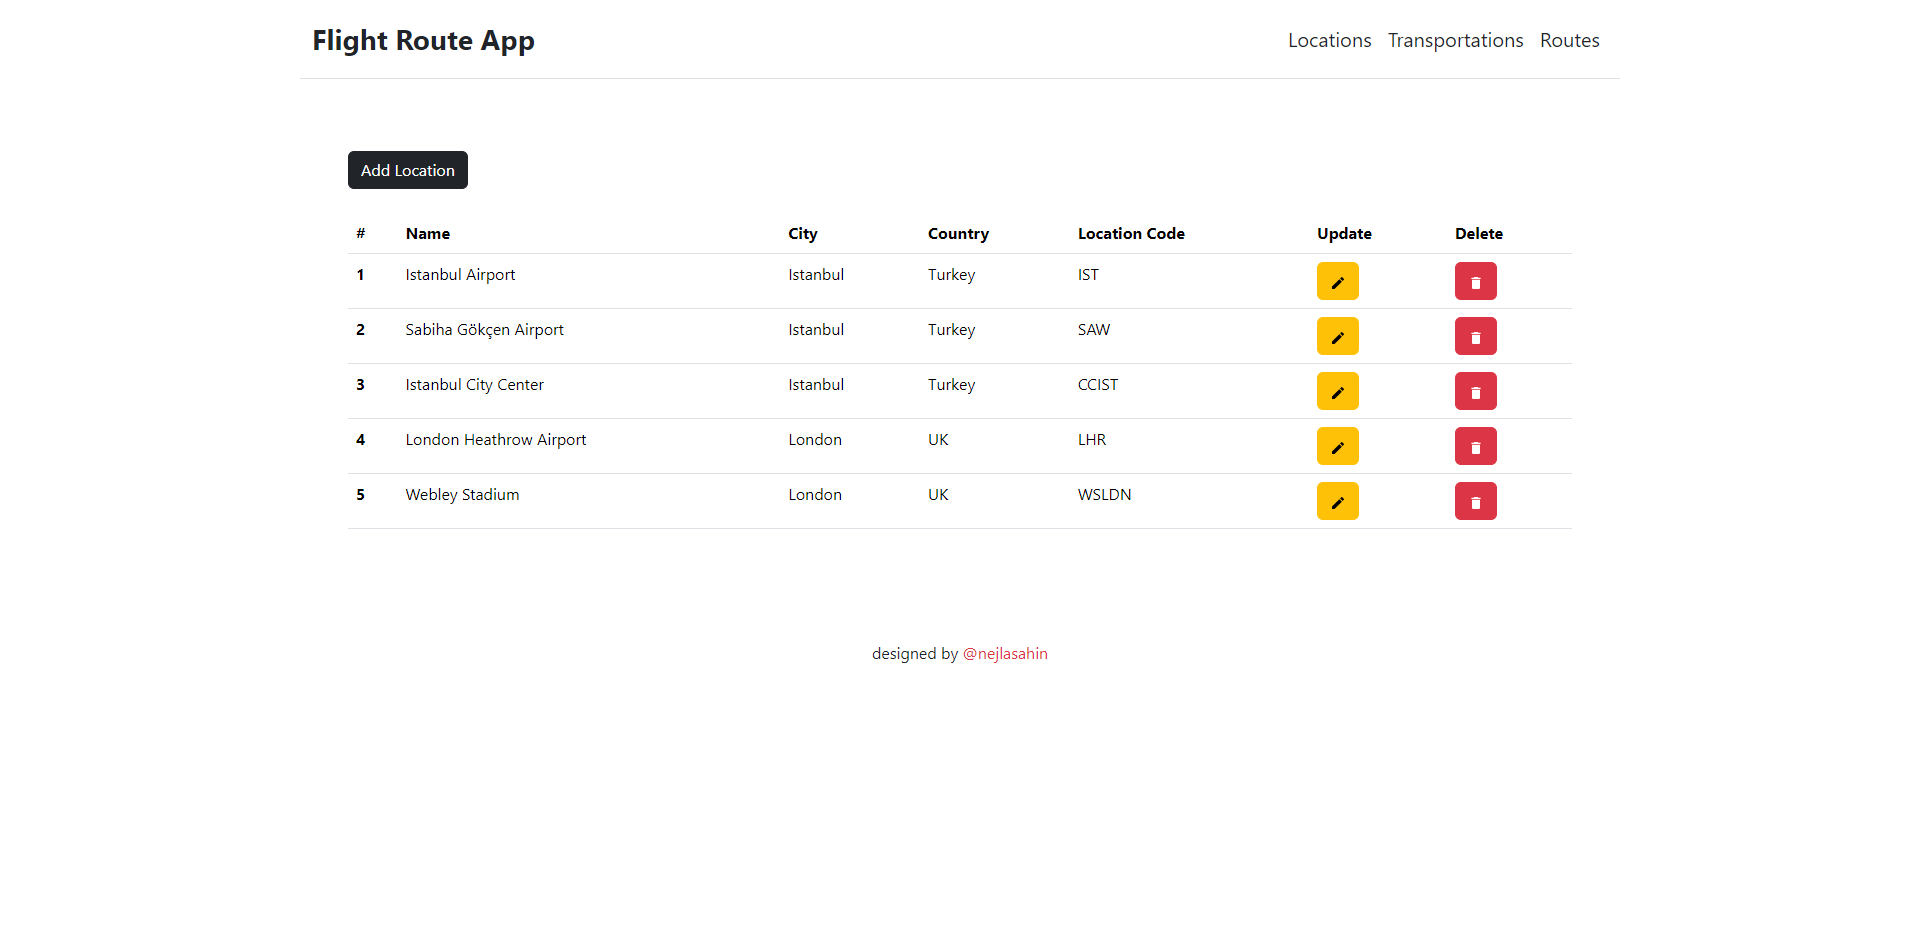
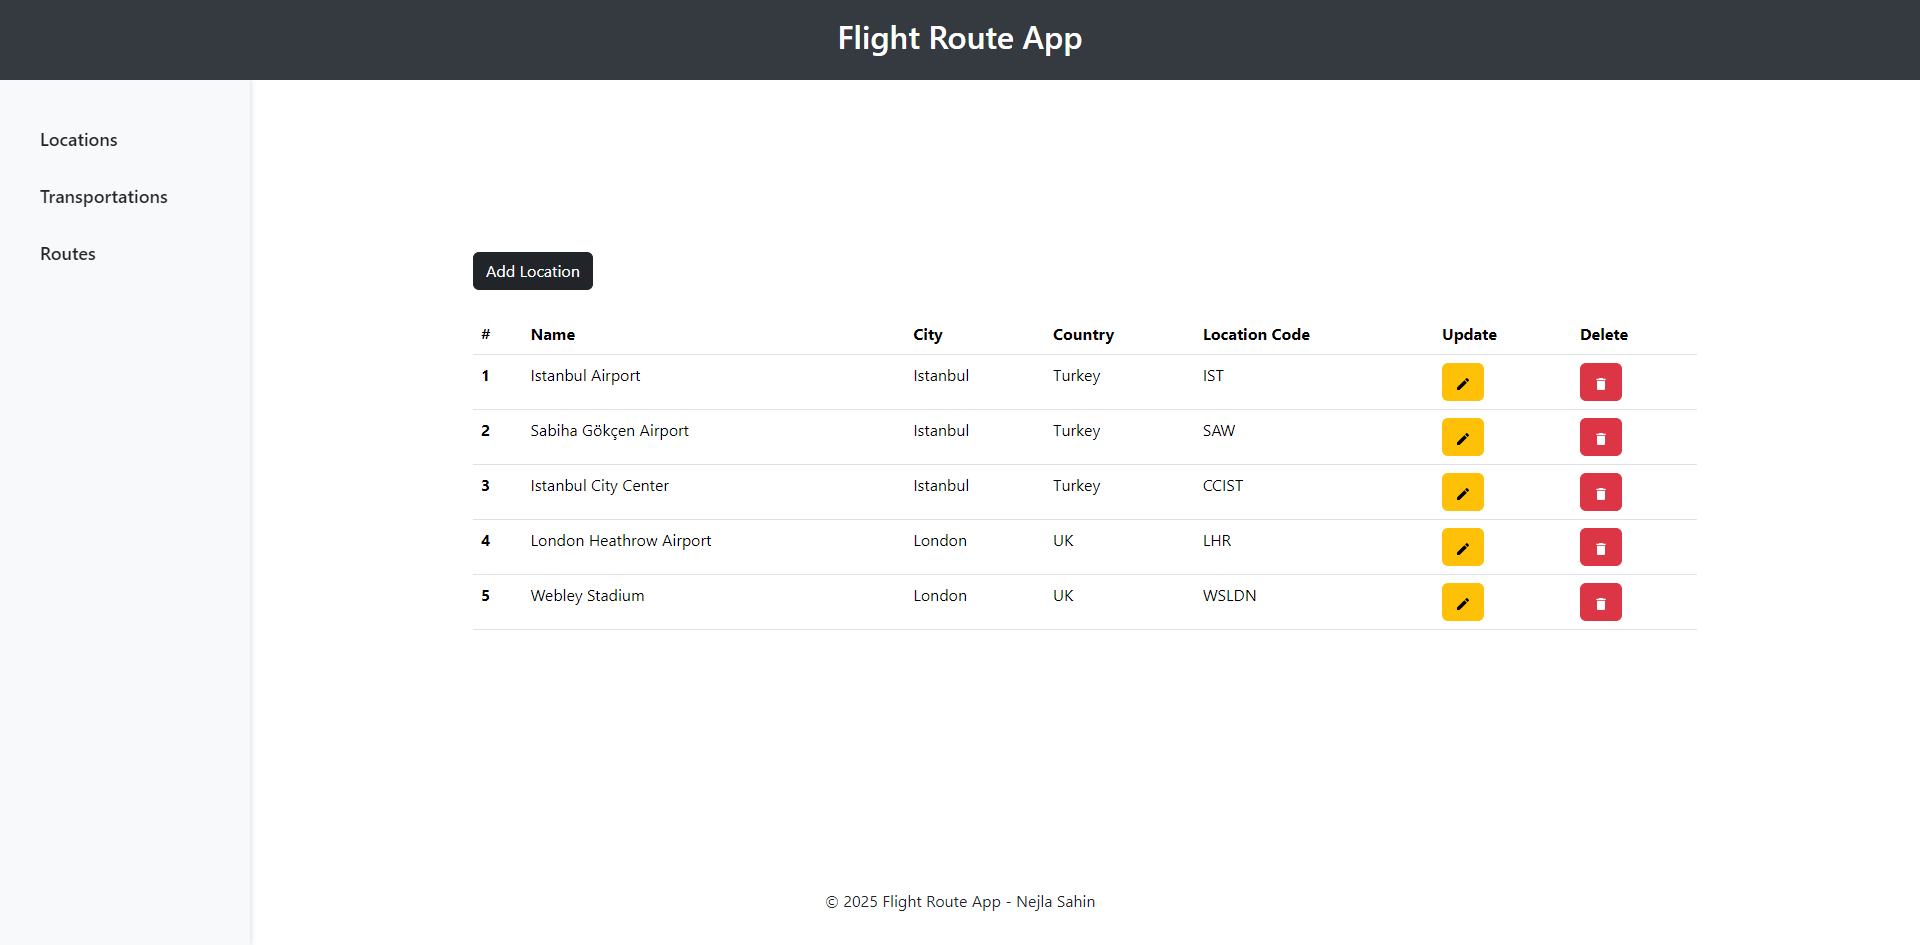
refactor layout to fix sidebar and header positioning, remove navbar

diff --git a/flight-route-ui/src/App.js b/flight-route-ui/src/App.js
@@ -1,26 +1,33 @@
 import React from 'react';
+import {Route, Routes} from 'react-router-dom';
 import Footer from './layouts/Footer';
-import Nav from './layouts/Nav';
+import './App.css';
 import Error from "./components/Error";
 import Home from "./components/Home";
-import {Route, Routes} from 'react-router-dom';
 import Locations from "./components/Locations";
 import Transportations from "./components/Transportations";
 import RouteCalculation from "./components/RouteCalculation";
+import Sidebar from "./layouts/Sidebar";
+import Header from "./layouts/Header";
 
 function App() {
     return (
-        <>
-            <Nav/>
-            <Routes>
-                <Route path="/" element={<Home/>}/>
-                <Route path="/locations" element={<Locations/>}/>
-                <Route path="/transportations" element={<Transportations/>}/>
-                <Route path="/routes" element={<RouteCalculation/>}/>
-                <Route path="*" element={<Error/>}/>
-            </Routes>
+        <div className="d-flex">
+            <Sidebar/>
+            <div className="content-area">
+                <Header/>
+                <div className="main-content p-4" style={{marginTop: '80px'}}>
+                    <Routes>
+                        <Route path="/" element={<Home/>}/>
+                        <Route path="/locations" element={<Locations/>}/>
+                        <Route path="/transportations" element={<Transportations/>}/>
+                        <Route path="/routes" element={<RouteCalculation/>}/>
+                        <Route path="*" element={<Error/>}/>
+                    </Routes>
+                </div>
+            </div>
             <Footer/>
-        </>
+        </div>
     );
 }
 

diff --git a/flight-route-ui/src/App.css b/flight-route-ui/src/App.css
@@ -1,0 +1,60 @@
+.sidebar-container {
+    position: fixed;
+    top: 80px;
+    left: 0;
+    width: 250px;
+    height: calc(100% - 80px);
+    background-color: #f8f9fa;
+    box-shadow: 2px 0 5px rgba(0, 0, 0, 0.1);
+    z-index: 100;
+    padding: 20px;
+}
+
+.header-container {
+    position: fixed;
+    top: 0;
+    left: 0;
+    width: 100%;
+    height: 80px;
+    background-color: #343a40;
+    color: white;
+    z-index: 200;
+    display: flex;
+    justify-content: center;
+    align-items: center;
+}
+
+.content-area {
+    margin-left: 250px;
+    margin-top: 80px;
+    padding: 20px;
+    width: calc(100% - 250px);
+}
+
+.d-flex {
+    display: flex;
+}
+
+footer {
+    position: fixed;
+    bottom: 0;
+    width: 100%;
+    background-color: #f8f9fa;
+    padding: 1rem;
+    text-align: center;
+}
+
+.sidebar-container .nav-link {
+    font-weight: 600;
+    font-size: 18px;
+    padding: 10px 20px;
+    text-decoration: none;
+    color: white;
+    border-radius: 5px;
+    margin-bottom: 10px;
+    transition: background-color 0.3s ease, transform 0.2s ease;
+}
+
+.sidebar-container .nav-link:hover {
+    transform: scale(1.05);
+}

diff --git a/flight-route-ui/src/layouts/Sidebar.jsx b/flight-route-ui/src/layouts/Sidebar.jsx
@@ -1,0 +1,22 @@
+import React from 'react';
+import { Link } from 'react-router-dom';
+
+function Sidebar() {
+    return (
+        <div className="sidebar-container">
+            <ul className="nav flex-column mb-auto mt-3">
+                <li className="nav-item">
+                    <Link to="/locations" className="nav-link text-dark">Locations</Link>
+                </li>
+                <li>
+                    <Link to="/transportations" className="nav-link text-dark">Transportations</Link>
+                </li>
+                <li>
+                    <Link to="/routes" className="nav-link text-dark">Routes</Link>
+                </li>
+            </ul>
+        </div>
+    );
+}
+
+export default Sidebar;

diff --git a/flight-route-ui/src/layouts/Footer.jsx b/flight-route-ui/src/layouts/Footer.jsx
@@ -1,14 +1,11 @@
-import React from 'react'
+import React from 'react';
 
 function Footer() {
     return (
-        <>
-            <footer className="mt-5 text-center">
-                <p>designed by <a className='text-decoration-none' href="https://github.com/nejlasahin" target="_blank"><span
-                    className="text-danger">@nejlasahin</span></a></p>
-            </footer>
-        </>
-    )
+        <footer className="bg-white text-dark text-center">
+            <p>© 2025 Flight Route App - Nejla Sahin</p>
+        </footer>
+    );
 }
 
 export default Footer;

diff --git a/flight-route-ui/src/layouts/Header.jsx b/flight-route-ui/src/layouts/Header.jsx
@@ -1,0 +1,16 @@
+import React from 'react';
+import { Link } from 'react-router-dom';
+
+function Header() {
+    return (
+        <div className="header-container">
+            <h2>
+                <Link to="/" className="text-white" style={{ textDecoration: 'none' }}>
+                    Flight Route App
+                </Link>
+            </h2>
+        </div>
+    );
+}
+
+export default Header;

diff --git a/flight-route-ui/src/components/Transportations.jsx b/flight-route-ui/src/components/Transportations.jsx
@@ -1,7 +1,6 @@
 import axios from 'axios';
 import {Button, Form, Modal} from 'react-bootstrap';
 import {useCallback, useEffect, useReducer, useState} from 'react';
-import {useNavigate} from 'react-router-dom';
 import {MdDelete, MdEdit} from 'react-icons/md';
 
 const initialTransportationState = {

diff --git a/flight-route-ui/src/components/Locations.jsx b/flight-route-ui/src/components/Locations.jsx
@@ -1,7 +1,6 @@
 import axios from 'axios';
 import {Button, Modal} from 'react-bootstrap';
 import {useCallback, useEffect, useReducer, useState} from 'react';
-import {useNavigate} from 'react-router-dom';
 import {MdDelete, MdEdit} from 'react-icons/md';
 
 const initialLocationState = {
